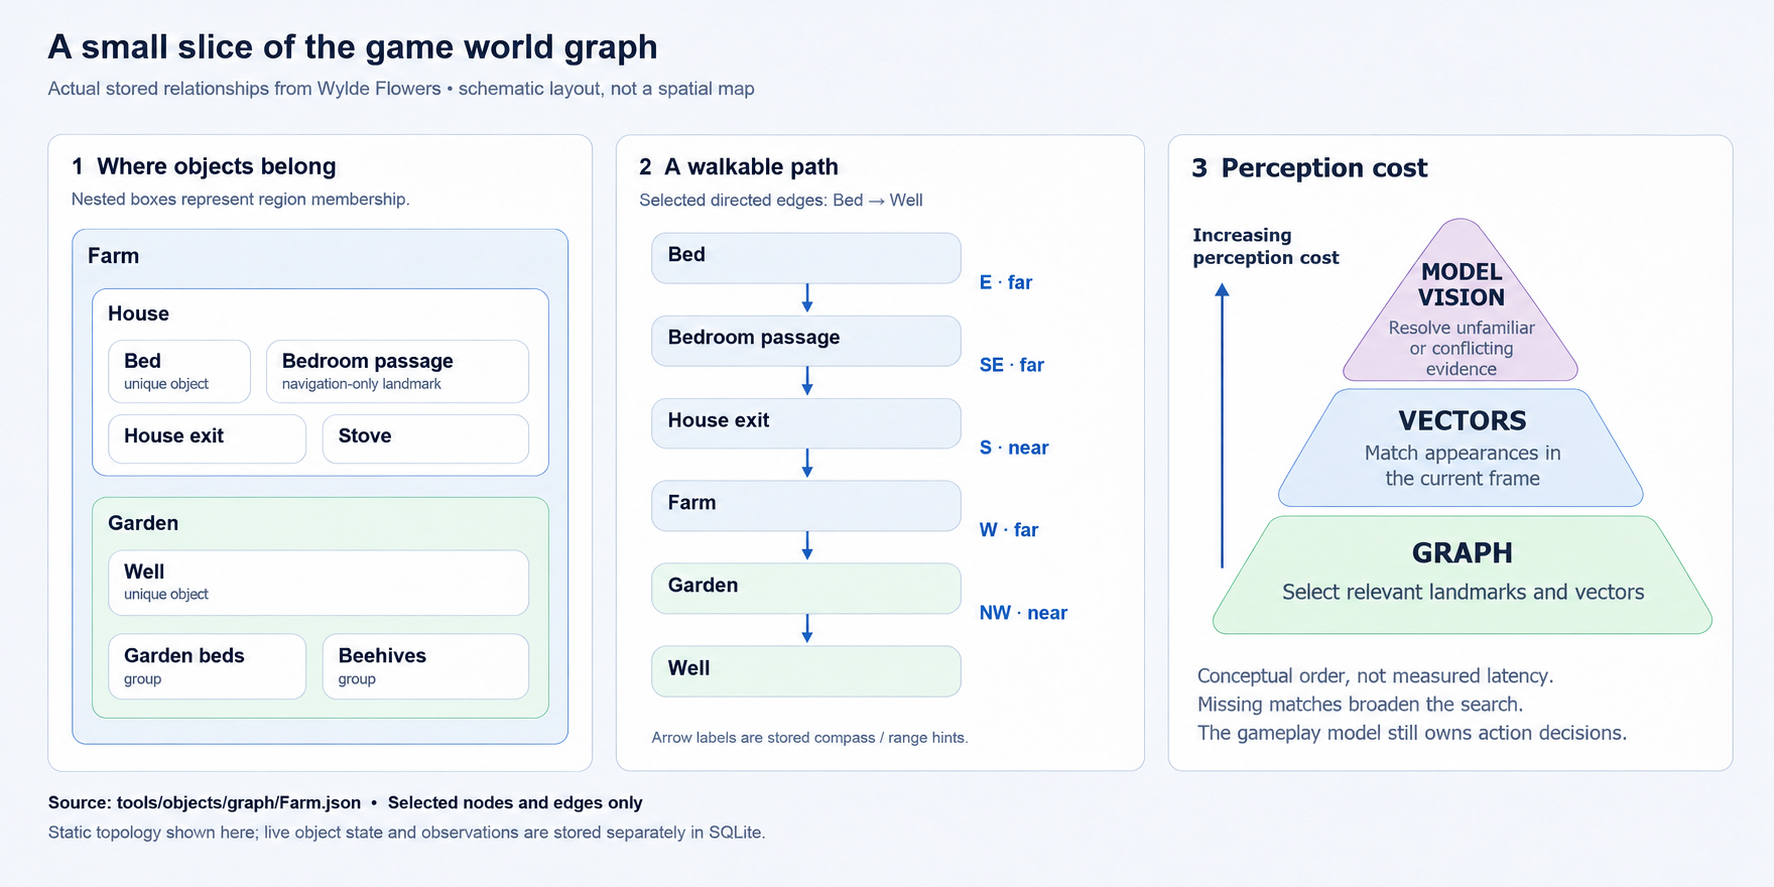
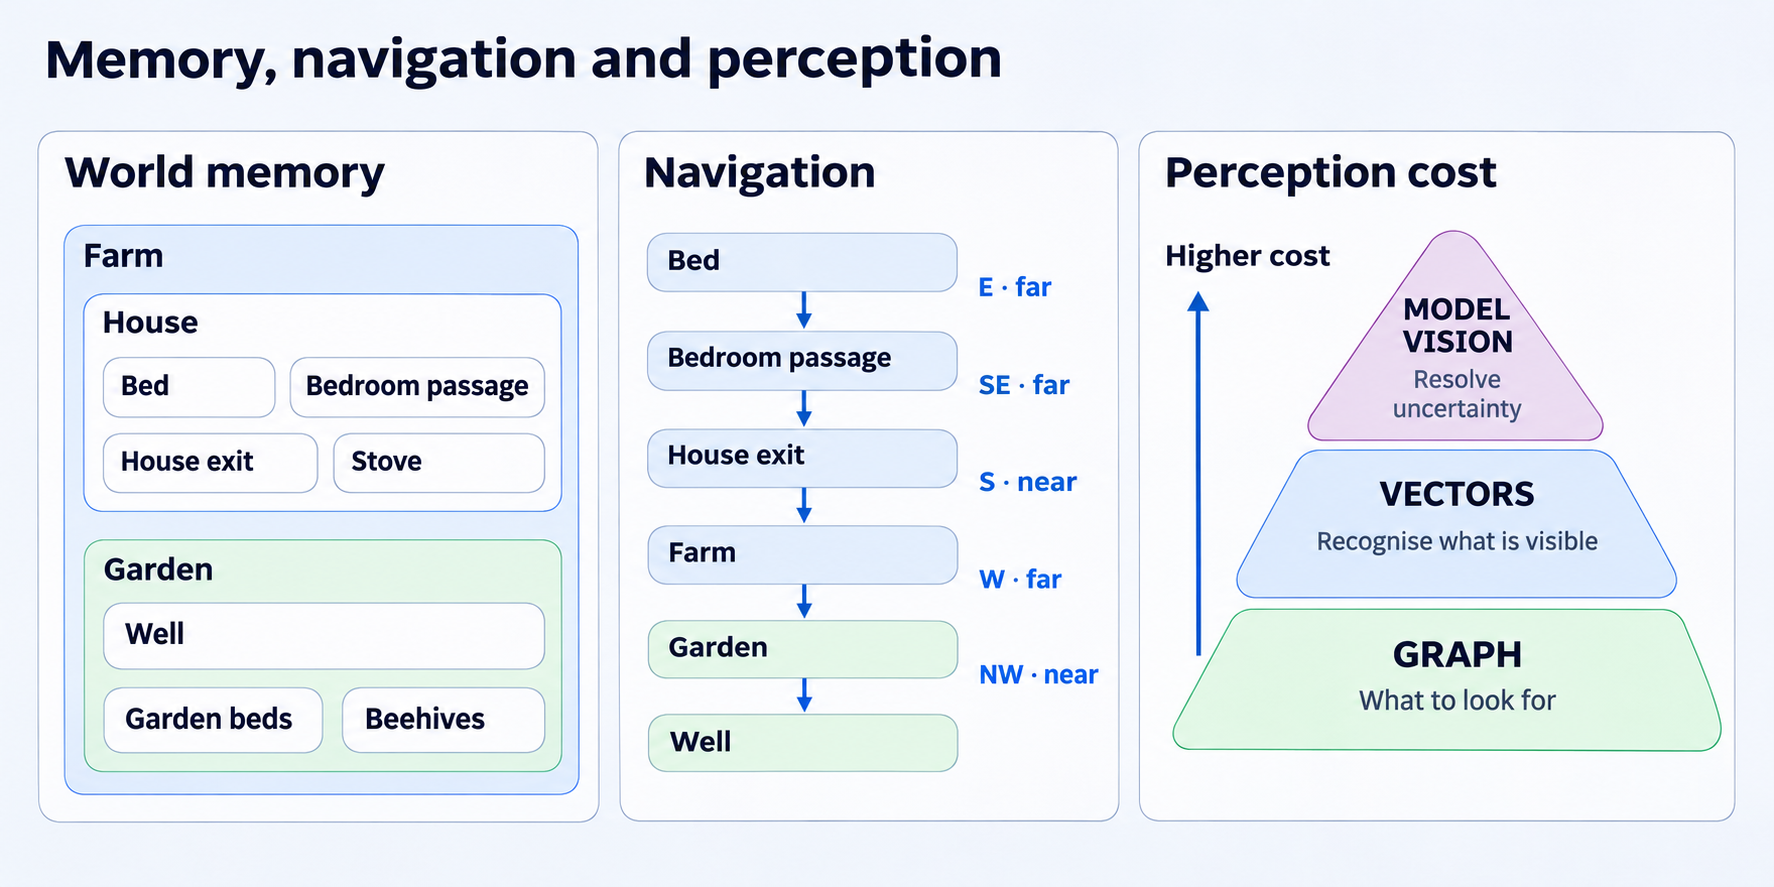
docs: focus README and diagram on agent concepts

diff --git a/README.md b/README.md
@@ -1,213 +1,76 @@
 # An AI agent that plays Wylde Flowers
 
-**A hands-on project in visual AI agents, persistent memory, action verification and learning from live failures.**
+**Exploring how an AI agent can see, act, remember and learn in a real game.**
 
-This project explores how an AI agent can operate a real game, remember what it has learned, and improve its own
-ability to play. The test bed is *Wylde Flowers*. The agent observes screenshots, sends
-ordinary mouse and keyboard input, and reads game logs and decoded saves as additional evidence.
+The agent works on tasks such as navigating between locations, tending garden beds, interacting with characters
+and using shops. It observes screenshots, uses ordinary mouse and keyboard input, and checks game logs and saves
+for additional evidence.
 
-Tasks include navigating between locations, tending garden beds, interacting with characters and using shops.
-The engineering work combines language and vision models with local perception, a world graph, durable task state
-and an instrumented execution loop. Development happens through live attempts, recorded failures, code changes and
-verification.
+The goal is faster, more reliable play with less human intervention. The project improves the agent's ability to
+play; it does not change the game.
 
-The goal is faster, more reliable gameplay with less human intervention. This is an experimental agent toolkit;
-reliable unattended play remains work in progress. It improves the agent's behaviour, not the game itself.
+## The agent loop
 
-## The engineering problem
+**Observe → understand → decide → act → verify → learn**
 
-A plausible model answer is only the beginning. A practical agent must also handle:
+The model owns the decisions. Visual recognition and memory supply evidence; each action produces a result to check
+before continuing. When something unexpected happens, the agent revisits its understanding while retaining the task.
 
-- ambiguous visual evidence and objects that look alike;
-- delayed animations, changing screens and stale coordinates;
-- interrupted tasks that must resume without repeating a purchase or losing an interaction phase;
-- actions whose delivery is uncertain after a timeout;
-- apparent success contradicted by application evidence;
-- corrections that help one case but may regress another.
+## Memory, navigation and perception
 
-These issues surfaced during navigation, gardening and shop interactions. They led to a design that records intent
-before execution, preserves evidence around each action, and separates proposed outcomes from verified outcomes.
+![World memory, a navigation path, and a perception-cost pyramid: graph, vectors, model vision](docs/media/world-graph.png)
 
-## What is implemented
+Three complementary layers help the agent interpret its surroundings:
 
-The current public gameplay entry point is a **model-owned turn loop**. Local code gathers clues and may recommend
-an action; the gameplay model explicitly chooses each continuation. An observation returns `NEXT` without issuing
-input. A versioned decision can execute at most one guarded input.
+- **Graph:** what exists, how places connect, and which landmarks to look for.
+- **Vectors:** what familiar objects and interaction prompts look like.
+- **Model vision:** how to interpret unfamiliar or conflicting evidence.
 
-```mermaid
-flowchart LR
-    O["Observe: frame, UI, graph, logs"] --> M["Model reconciles evidence and chooses next action"]
-    M --> G["Validate turn and action preconditions"]
-    G --> A["Persist intent; execute at most one input"]
-    A --> V["Capture result; check expected outcome"]
-    V --> S["Update task, world and evidence"]
-    S --> O
-    V --> C["Surprise: preserve evidence for model-owned recovery"]
-    C --> M
-```
+The pyramid shows a conceptual order of perception cost. The model still chooses actions throughout the loop.
 
-| Capability | Implementation and purpose |
-|---|---|
-| Model-owned decisions | [play.py](tools/game/play.py) and [turn.py](tools/game/turn.py) expose observations, accept explicit decisions and guard execution. The model is not merely an exceptional vision fallback. |
-| Durable task state | [task_state.py](tools/game/task_state.py) persists the active target, interaction phase, crop, nested subgoals and pending intent, using the SQLite runtime store. |
-| Grounded perception | OCR, Apple Vision feature prints and DINOv2 patch embeddings provide text, visual matches and object candidates. Labelled examples live in local vector stores. |
-| World and navigation memory | Object state, containment and relations live in a graph. [navigation.py](tools/game/navigation.py) supplies walkable graph paths, qualitative localization, compass/range hints and progress checks for model-selected waypoints. |
-| Action verification | [primitives.py](tools/game/primitives.py), [experience.py](tools/game/experience.py) and [integrate.py](tools/game/integrate.py) connect actions to observations, verification checks and replayable updates. |
-| Transport uncertainty | [wfc.py](tools/wfc.py) avoids automatically resending a request when it may already have reached the daemon. A timeout is not treated as proof that nothing happened. |
-| Human-readable audit trail | Each run has timestamped decisions, results and corrections in `decisions.md`, generated from the canonical SQLite timeline. Navigation entries include graph and compass evidence. |
-| Evaluation tooling | Component hit/miss records, replay tests, benchmark tooling and SQLite-backed live navigation evaluations record outcomes and timing. |
+The world graph gives navigation a destination and connected places to travel through. Current visual evidence
+helps establish where the character is and which visible step makes progress. Recognising a landmark, moving toward
+it and arriving are separate things to verify.
 
-Visual similarity identifies an appearance or kind; it does not prove the identity of one of several identical beds.
-Positioned game events and other scoped evidence bind interactions to actual objects. Save-derived facts carry
-provenance because an autosave can lag behind the live screen.
+## Remembering the task
 
-Transition tables remain available as knowledge and recommendation inputs. Older scheduler code and historical
-specifications also remain in the repository; they should not be mistaken for the current public execution contract.
+An interrupted task should retain its goal, current target and unfinished interaction. For gardening, that can mean
+resuming planting or watering without repeating a completed harvest.
 
-### Graph example and perception cost
+Long-lived knowledge and current observations serve different purposes. A remembered location is a clue; a fresh
+view may show that it is wrong.
 
-![World graph: nested regions, a directed Bed-to-Well path, and a perception-cost pyramid with graph at the base, vectors in the middle and model vision at the top](docs/media/world-graph.png)
+## Learning from surprises
 
-The example shows selected relationships from [the static Farm graph](tools/objects/graph/Farm.json), not a live
-location estimate. The perception order is **graph → vectors → model vision**: use the task and likely region to
-select relevant landmarks, look for their visual matches, then resolve unfamiliar or conflicting evidence with
-model vision. Missing matches call for re-examining the location hypothesis and broadening the search.
+A mistake can reveal different gaps:
 
-The pyramid illustrates conceptual perception cost, not measured latency. The gameplay model still owns action
-decisions; it is not used only at the top of this perception hierarchy.
+- **Wrong state:** update what is believed about the world.
+- **Unknown appearance:** add a confirmed visual example.
+- **Unexpected result:** revise knowledge of how an interaction works.
+- **Recurring system failure:** preserve the evidence for a reviewed implementation change.
 
-## Learning without trusting every model answer
+Learning includes visual memories, world knowledge and agent-assisted development. It does not mean the agent
+autonomously retrains a foundation model or rewrites itself during play.
 
-The system distinguishes several kinds of correction:
+## Making progress measurable
 
-1. **State:** apply a verified event to the current world or interaction.
-2. **Perception:** add a labelled appearance example or correct a mistaken match with supporting evidence.
-3. **Behaviour knowledge:** record transition observations and revise expectations when outcomes disagree.
-4. **Implementation:** preserve a gap for an offline code change, replay and live verification.
+The project records observations, decisions, actions, outcomes and corrections. Evaluation asks:
 
-The integration boundary journals applied updates so replay need not teach the same experience twice. Runtime code
-does not rewrite itself during an action. Model explanations are useful hypotheses; application evidence determines
-what can be recorded as verified.
+- Did the task actually finish?
+- How much time was spent observing, deciding and acting?
+- How often did the agent get stuck or need human help?
+- Did a correction solve the failure without breaking other behaviour?
 
-For example, a purchase requires matching inventory and money evidence. A refused click must remain distinguishable
-from a click that reached the game but failed. An interrupted gardening task must retain its target and phase while
-resolving a surprise. These are constraints on agent execution, not prompt-only requests to “be careful.”
+A click being delivered is not proof of success. A moving character is not proof of useful progress.
 
-## Engineering lessons from the project
+## Status
 
-The work goes beyond asking a model where to click. Several recurring problems have shaped the implementation:
+This is an experimental project with live gameplay attempts, persistent memory, visual recognition, action
+verification and evaluation tooling. Reliable unattended play and consistently fast decisions remain work in
+progress. Proposed model combinations and performance targets are not presented as achieved results.
 
-- **Recognition and identity are different.** An embedding can recognise a bed, but distinguishing identical beds
-  needs location and interaction evidence. Visual candidates and confirmed object identity are kept separate.
-- **Movement is not arrival.** A click can move the character without advancing the route. Navigation needs a
-  current location hypothesis, a next objective and evidence of progress toward that objective.
-- **A timeout creates uncertainty.** Retrying an input whose delivery is unknown can repeat an interaction. Pending
-  intent and observed results must be reconciled before another action.
-- **Memory needs provenance and scope.** Facts from another save profile, stale screenshots or earlier interactions
-  can produce convincing but incorrect decisions. The runtime records observation identity and save lineage.
-- **Latency needs attribution.** Capture, perception, persistence, action settling and external model/tool gaps must
-  be measured separately before choosing what to optimise.
+## Credits
 
-These problems provide practical experience in building and debugging agents that interact with a changing
-environment. The code and run evidence are the case study; no production deployment or business outcome is implied.
+*Wylde Flowers* © Studio Drydock. This is an unofficial project, not affiliated with or endorsed by Studio Drydock.
 
-## Current architecture and experimental work
-
-The intended gameplay owner is one model-capable agent that handles observation, decisions and recoverable surprises
-through a task. It receives a bounded receipt containing the current full-scale frame, visual candidates, relevant
-world facts and the previous action result. The runtime persists decisions and executes primitives; it does not
-contain a self-sufficient local model player.
-
-Navigation uses graph connectivity and qualitative directions/ranges. The gameplay model updates its current
-semantic location and next objective from current evidence. Those beliefs are short-lived; stored route knowledge
-does not turn an old screen coordinate into a valid new click.
-
-An experimental [native bridge](tools/game/native_bridge.py) exposes observation, action and note operations through
-the same durable turn boundary. [Host-facing packaging](tools/native_tools.py) returns bounded text and the saved
-frame. This is an alternative interface under evaluation, not a completed replacement for the gameplay workflow.
-The [documented live trial](docs/testing/INDEX.md) exercised transport and movement but did not complete leaving the
-House. Its receipt distinguishes physical movement from verified navigation progress.
-
-The project also includes SQLite-backed live navigation evaluations and timing instrumentation. The
-[requirements](requirements.md) set a three-second end-to-end turn budget; that is a target, not a demonstrated
-performance claim. [Timing reports](tools/owner_timing.py) distinguish measured runtime phases from host/model
-subdivisions that remain unmeasured without a host trace.
-
-## Current status and limits
-
-- **Implemented:** the Python/macOS gameplay toolkit, model-owned turn protocol, durable interactions, visual
-  memories, graph/navigation evidence, verification and logging infrastructure.
-- **Validation:** historical live demonstrations and offline tests exist. Some current universal workflows still
-  list live verification as pending. This README makes no claim of unattended production reliability or a measured
-  end-to-end success rate.
-- **Research directions:** local Qwen inference, RxInfer belief models and Laya-like specialists have been discussed.
-  They are not integrated into the current runtime. Their value needs comparative measurement before adoption.
-
-The current stack is Python, macOS Quartz/Apple Vision through PyObjC, NumPy, PyTorch/DINOv2 and SQLite runtime
-state. An external model-capable agent drives gameplay turns; installing the repository does not provision a local
-model or start an autonomous cloud agent.
-
-## Inspect or run the project
-
-The test bed requires macOS, *Wylde Flowers*, Python 3.12+, `uv`, Screen & System Audio Recording permission and
-Accessibility permission. The wrapper uses the repository's virtual environment.
-
-```sh
-uv sync
-./wf status
-./wf world kinds
-```
-
-For a model-driven run, create a task directory and review its plan before continuing:
-
-```sh
-./wf run start garden-demo "Inspect and maintain the garden"
-./wf play garden region=Garden
-```
-
-The second command observes and returns `NEXT`; it does not automatically complete gardening. The model reads the
-current frame and evidence, then supplies a decision with the exact returned `turn_id`. Read the
-[gameplay workflow](.claude/skills/wylde-play/SKILL.md) and
-[action contract](.claude/skills/wylde-play/actions/INDEX.md) before issuing a continuation.
-
-Check the current source-specific game clock before gameplay and follow the active deadline and human-handoff
-rules in [AGENTS.md](AGENTS.md), [requirements.md](requirements.md) and the gameplay workflow. Spending, sleeping
-and story choices follow the user's task scope.
-
-Structured runtime state is local and git-ignored in `runs/wf.sqlite3`; task directories hold human-readable
-projections and media:
-
-```text
-runs/wf.sqlite3   authoritative runs, tasks, observations, intents, experiences and world overlays
-runs/<timestamp>-<task>/
-  plan.md          task plan
-  decisions.md    generated timestamped observation, decision, outcome and correction summaries
-  progress.md     generated step timestamps and budget tracking
-  retro-N.md      run-local retrospective
-```
-
-Runtime recovery reads SQLite, not Markdown or legacy run-local JSON files. JSONL is available as an explicit
-`./wf run export --jsonl <run>` diagnostic export. See the [runtime store](docs/architecture/runtime-store.md).
-
-Read summaries with `./wf run status`, inspect component evaluation with `./wf eval`, and compare recorded benchmark
-runs with `./wf bench compare`. These commands expose evidence; they do not by themselves establish reliability.
-
-## Repository guide
-
-| Area | Start here |
-|---|---|
-| Runtime storage | [runtime-store.md](docs/architecture/runtime-store.md), [schema.py](tools/runtime/schema.py), [world_store.py](tools/game/world_store.py) |
-| Public gameplay loop | [play.py](tools/game/play.py), [turn.py](tools/game/turn.py), [task_state.py](tools/game/task_state.py) |
-| Guarded actions and verification | [primitives.py](tools/game/primitives.py), [experience.py](tools/game/experience.py), [integrate.py](tools/game/integrate.py) |
-| Perception and world memory | [observe.py](tools/game/observe.py), [objects/](tools/objects), [world.py](tools/game/world.py) |
-| Navigation evidence | [navigation.py](tools/game/navigation.py) |
-| Runtime and transport | [wf.py](tools/wf.py), [wfc.py](tools/wfc.py), [runtime/](tools/runtime) |
-| Experimental native gameplay bridge and timing | [native_bridge.py](tools/game/native_bridge.py), [native_tools.py](tools/native_tools.py), [owner_timing.py](tools/owner_timing.py) |
-| Evaluation | [testing guide](docs/testing/INDEX.md), [live_eval.py](tools/runtime/live_eval.py), [evals/](tools/evals), [bench/](tools/bench), [turn tests](tools/test_turn.py), [play tests](tools/test_play.py) |
-| Operations and game knowledge | [Docs index](docs/INDEX.md), [Wiki index](wiki/INDEX.md), [operating instructions](AGENTS.md) |
-
-## Credits and licences
-
-- *Wylde Flowers* © Studio Drydock. This is an unofficial research project, not affiliated with or endorsed by
-  Studio Drydock.
-- Imported material in `wiki/` derives from the game's fan wiki (Fandom); CC BY-SA 3.0 attribution is retained.
+Imported game-reference material derives from the game's fan wiki (Fandom); CC BY-SA 3.0 attribution is retained.
